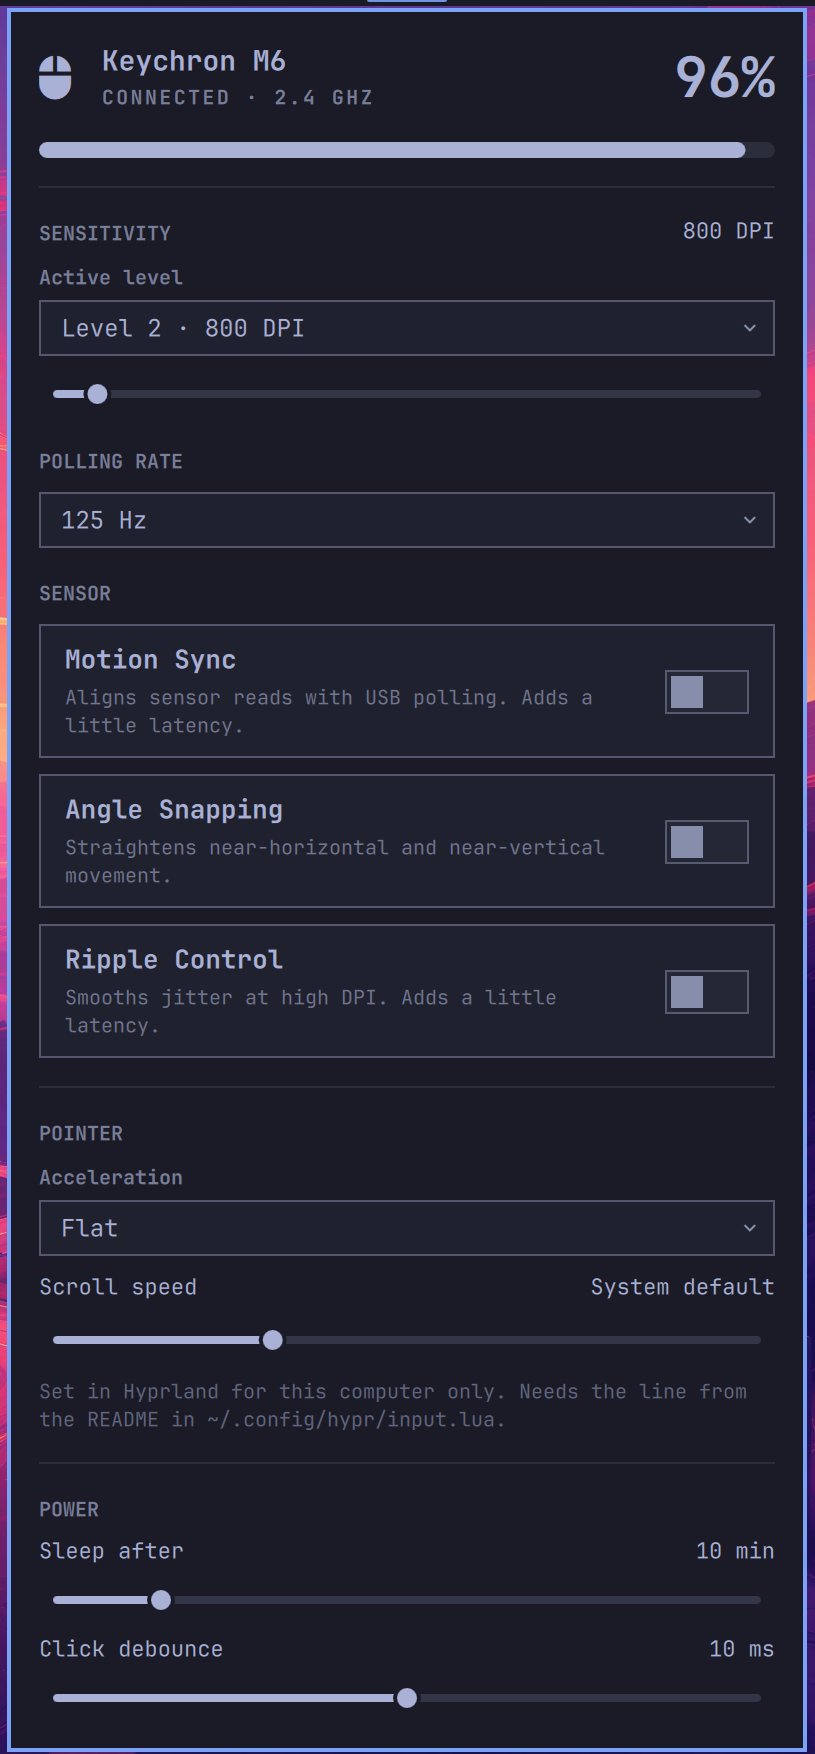
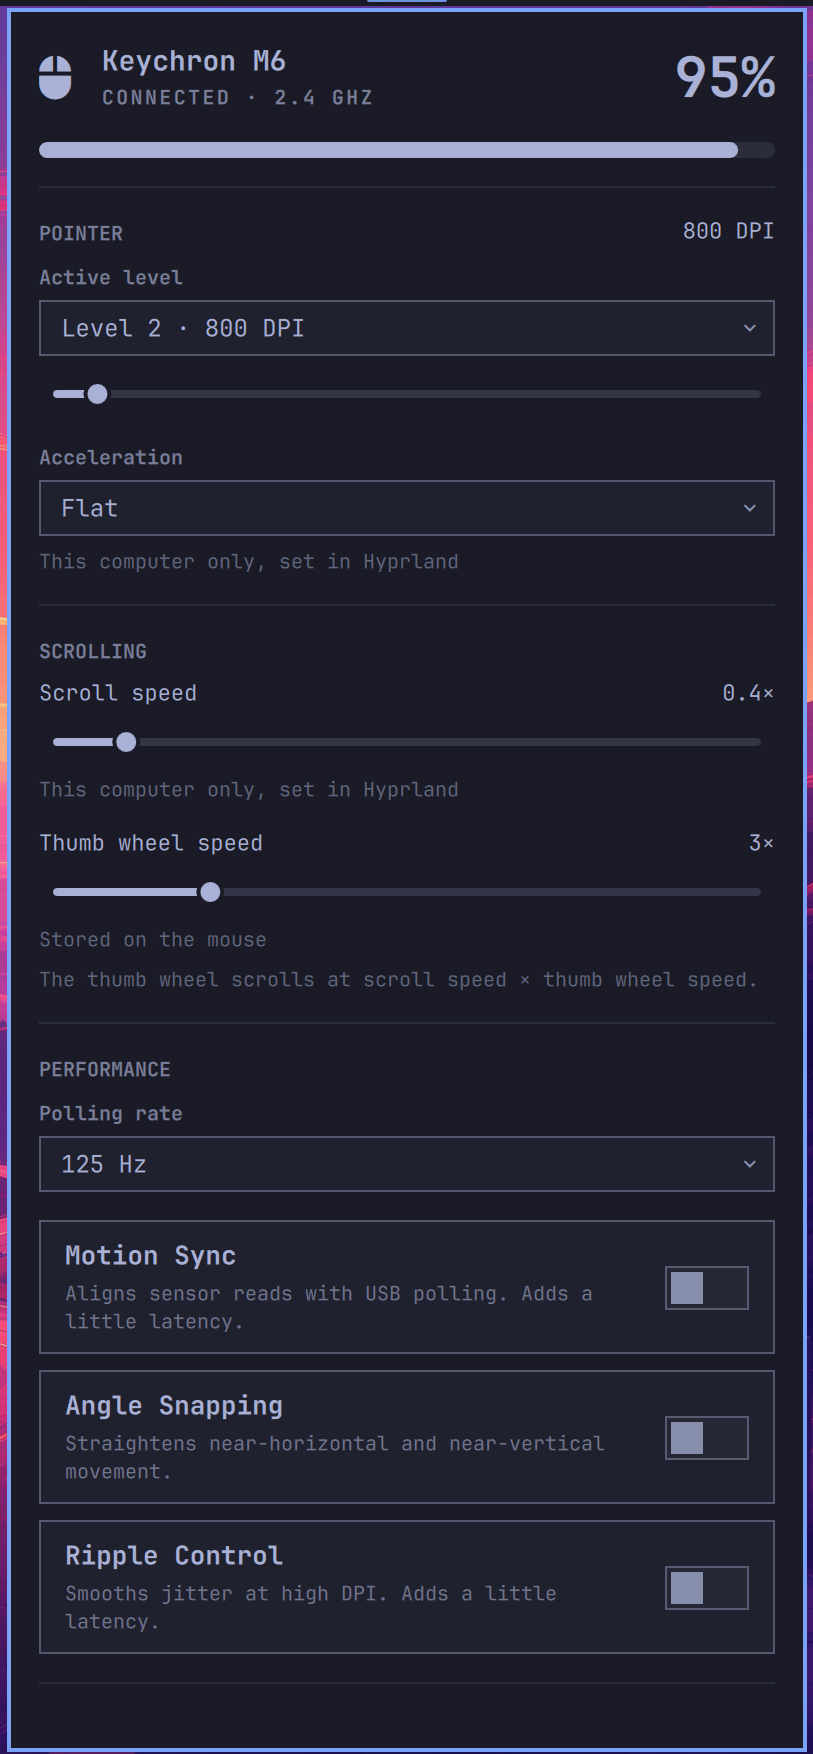
Update README screenshot for the new panel layout

diff --git a/README.md b/README.md
@@ -5,7 +5,7 @@ bar shows the battery level, and the panel changes DPI, polling rate, sensor
 options, buttons, pointer acceleration, and scroll speed.
 
 <p align="center">
-  <img src="preview.png" alt="The Keychron M6 panel open from the Omarchy bar, connected over 2.4 GHz at 96% battery, with the active DPI level, polling rate, Motion Sync, Angle Snapping, and Ripple Control toggles, Flat pointer acceleration, the scroll speed slider, and the sleep and click debounce sliders" width="340">
+  <img src="preview.png" alt="The Keychron M6 panel open from the Omarchy bar, connected over 2.4 GHz at 95% battery. The Pointer section shows the active DPI level and Flat acceleration, the Scrolling section shows a 0.4× scroll speed and a 3× thumb wheel speed, and the Performance section shows the polling rate with the Motion Sync, Angle Snapping, and Ripple Control toggles" width="340">
 </p>
 
 The widget supports only the PixArt 3311 version of the Keychron M6, such as
